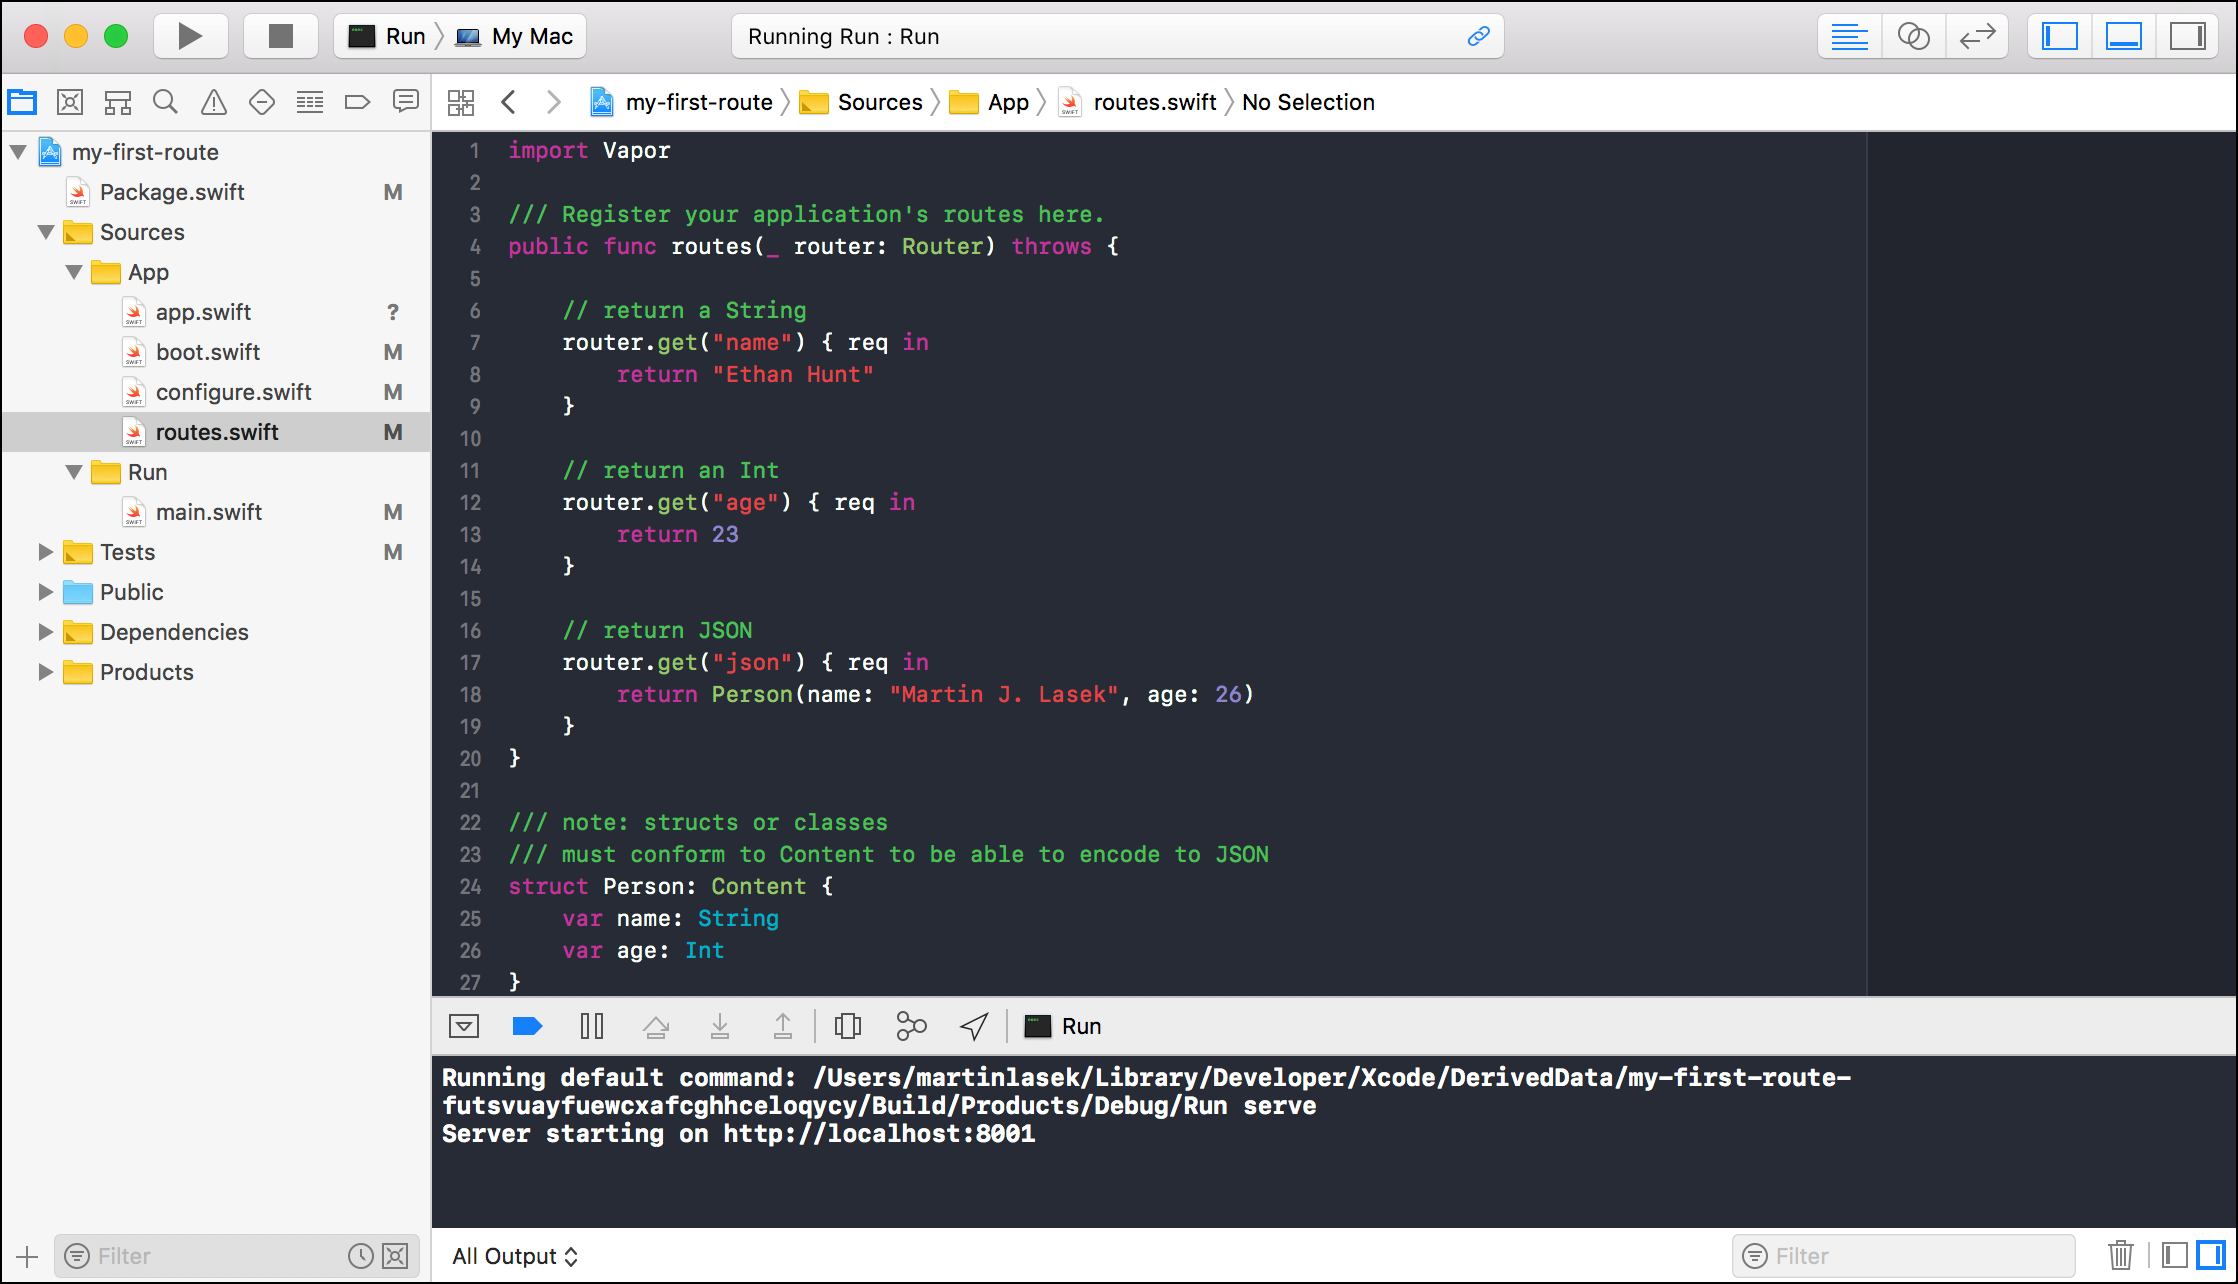
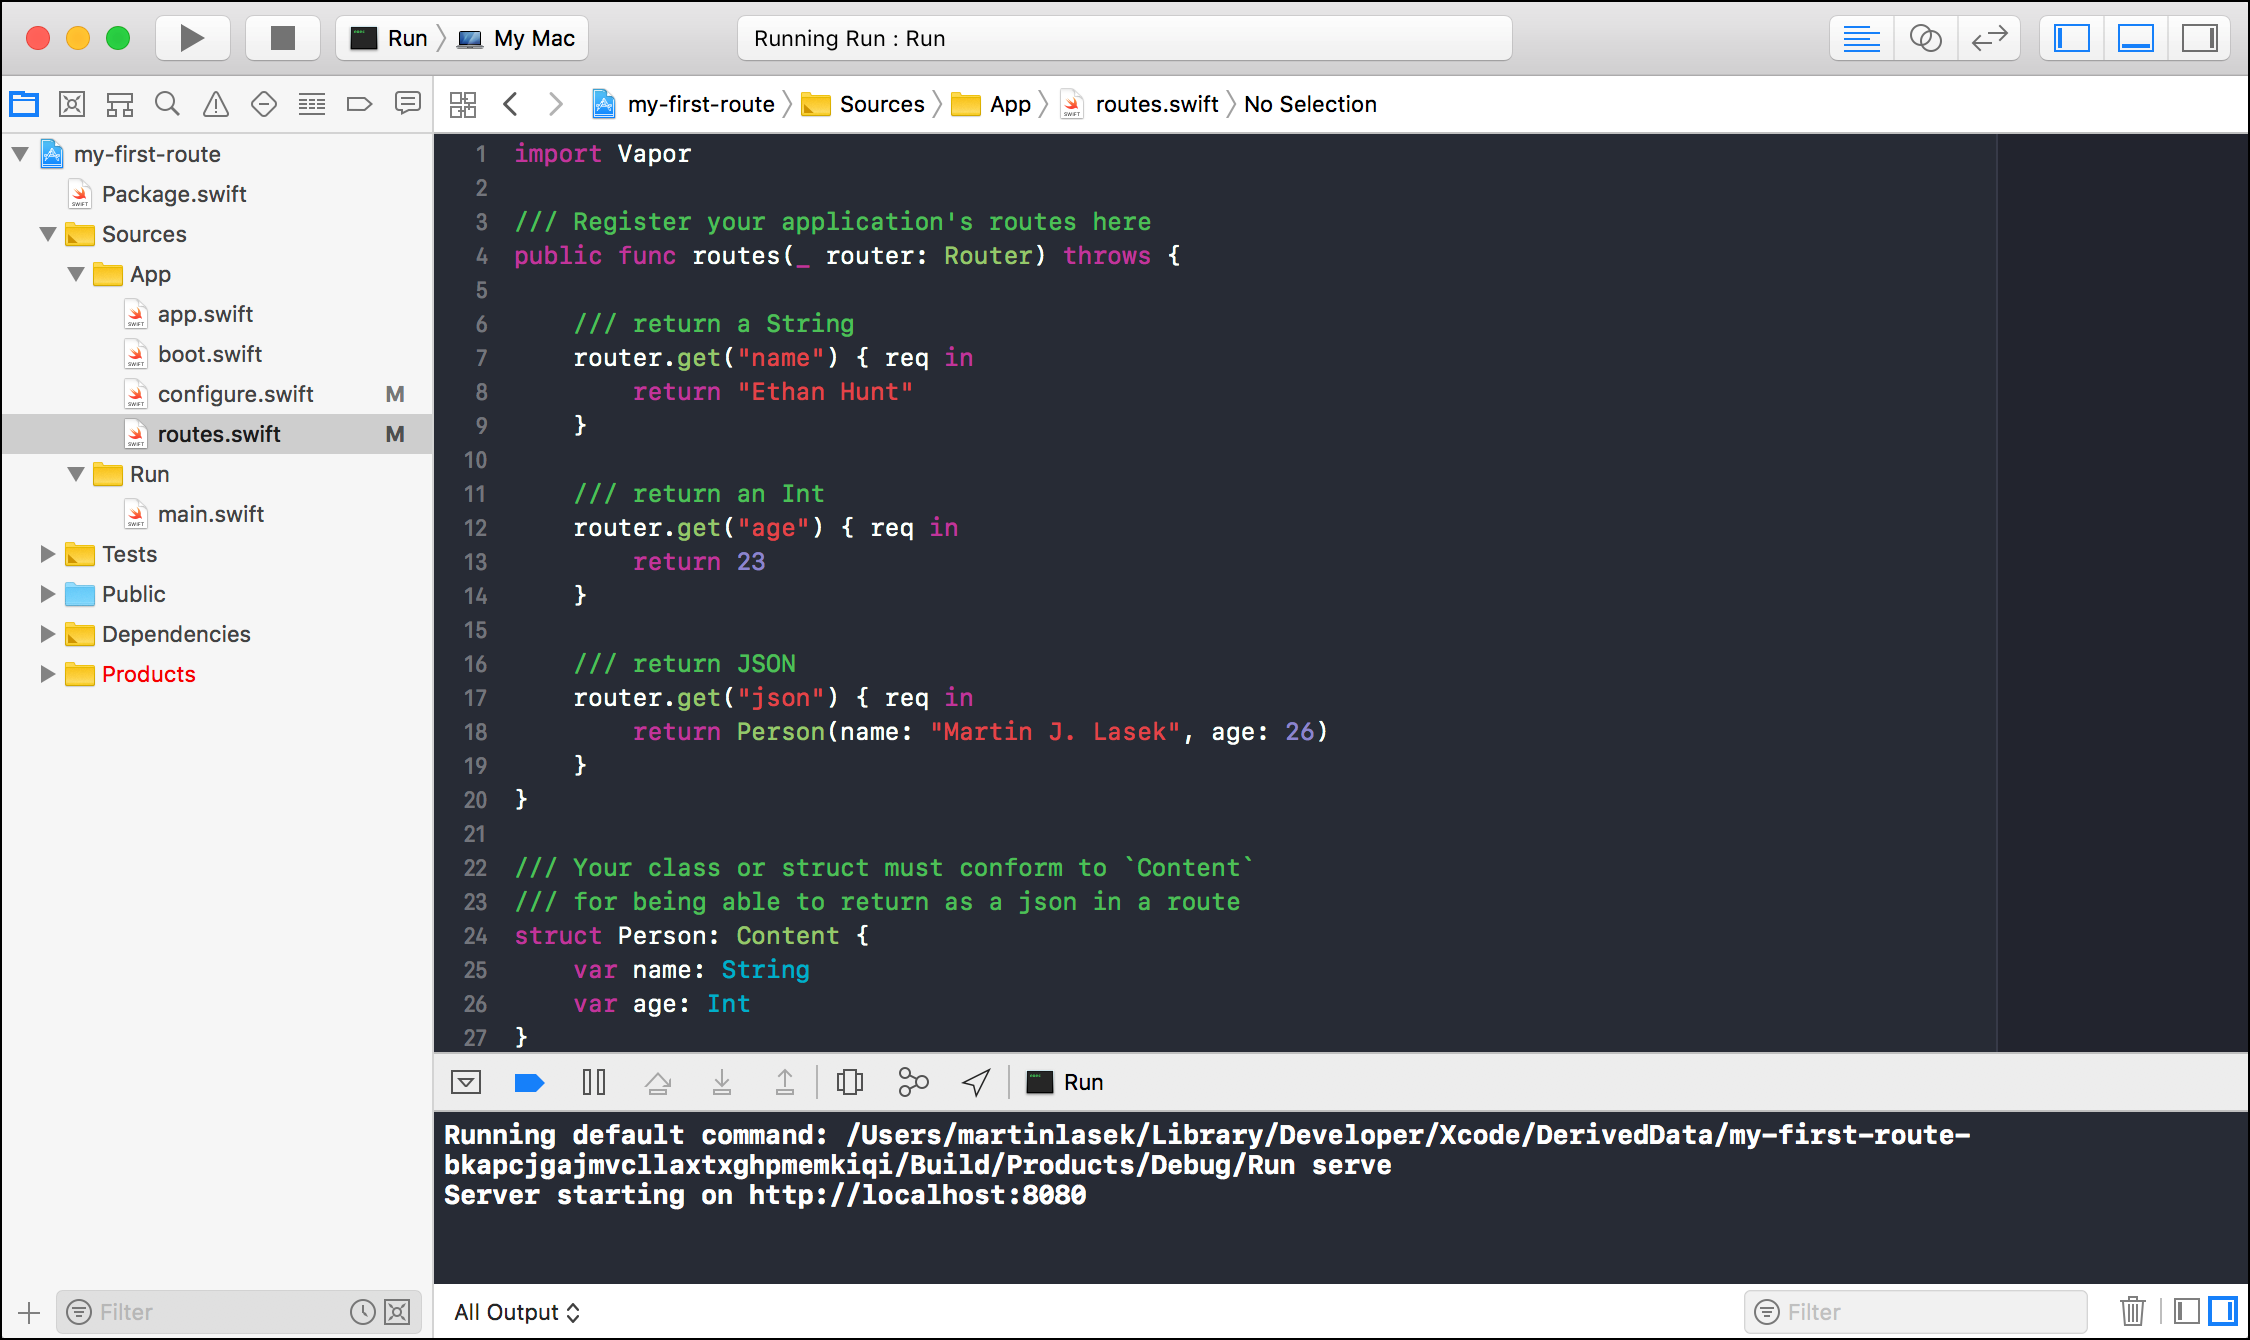
updated comments / simplified configuration

diff --git a/Sources/App/routes.swift b/Sources/App/routes.swift
@@ -1,26 +1,26 @@
 import Vapor
 
-/// Register your application's routes here.
+/// Register your application's routes here
 public func routes(_ router: Router) throws {
 
-    // return a String
+    /// return a String
     router.get("name") { req in
         return "Ethan Hunt"
     }
 
-    // return an Int
+    /// return an Int
     router.get("age") { req in
         return 23
     }
 
-    // return JSON
+    /// return JSON
     router.get("json") { req in
         return Person(name: "Martin J. Lasek", age: 26)
     }
 }
 
-/// note: structs or classes
-/// must conform to Content to be able to encode to JSON
+/// Your class or struct must conform to `Content`
+/// for being able to return as a json in a route
 struct Person: Content {
     var name: String
     var age: Int

diff --git a/Sources/App/configure.swift b/Sources/App/configure.swift
@@ -1,6 +1,6 @@
 import Vapor
 
-/// Called before your application initializes.
+/// Called before your application initializes
 public func configure(
     _ config: inout Config,
     _ env: inout Environment,
@@ -10,7 +10,4 @@ public func configure(
     let router = EngineRouter.default()
     try routes(router)
     services.register(router, as: Router.self)
-
-    let myService = NIOServerConfig.default(port: 8001)
-    services.register(myService)
 }
